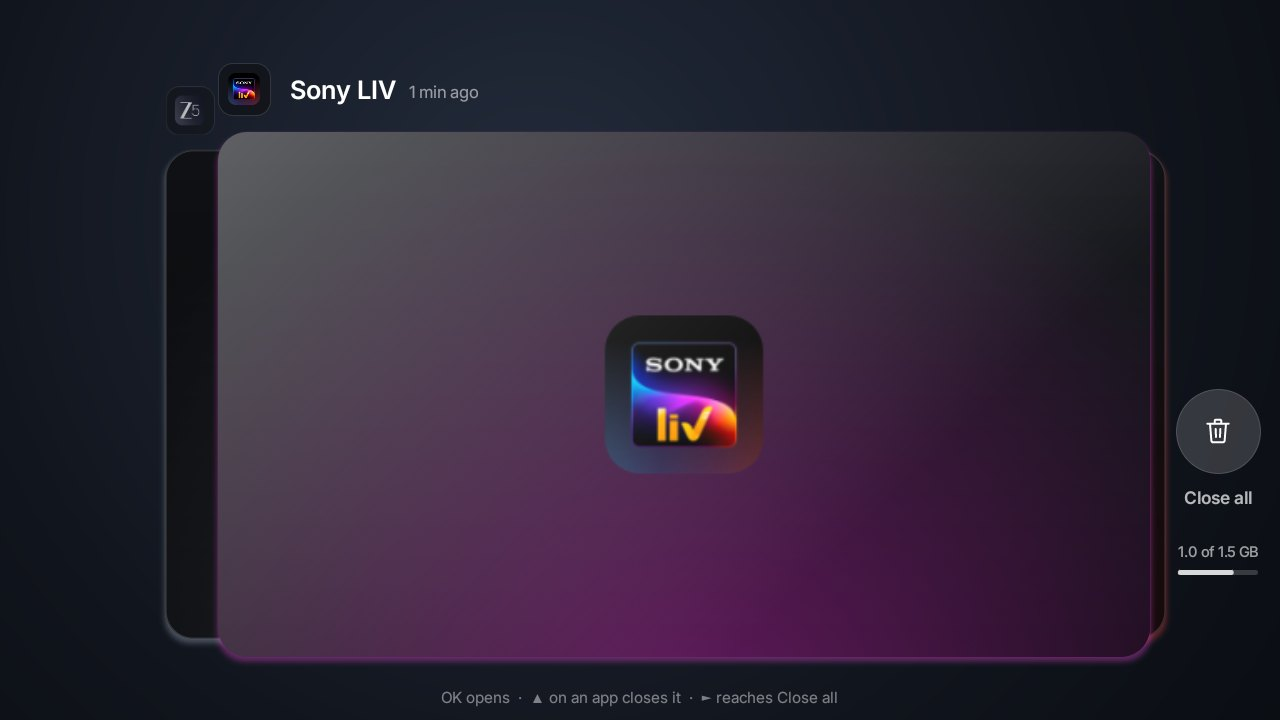
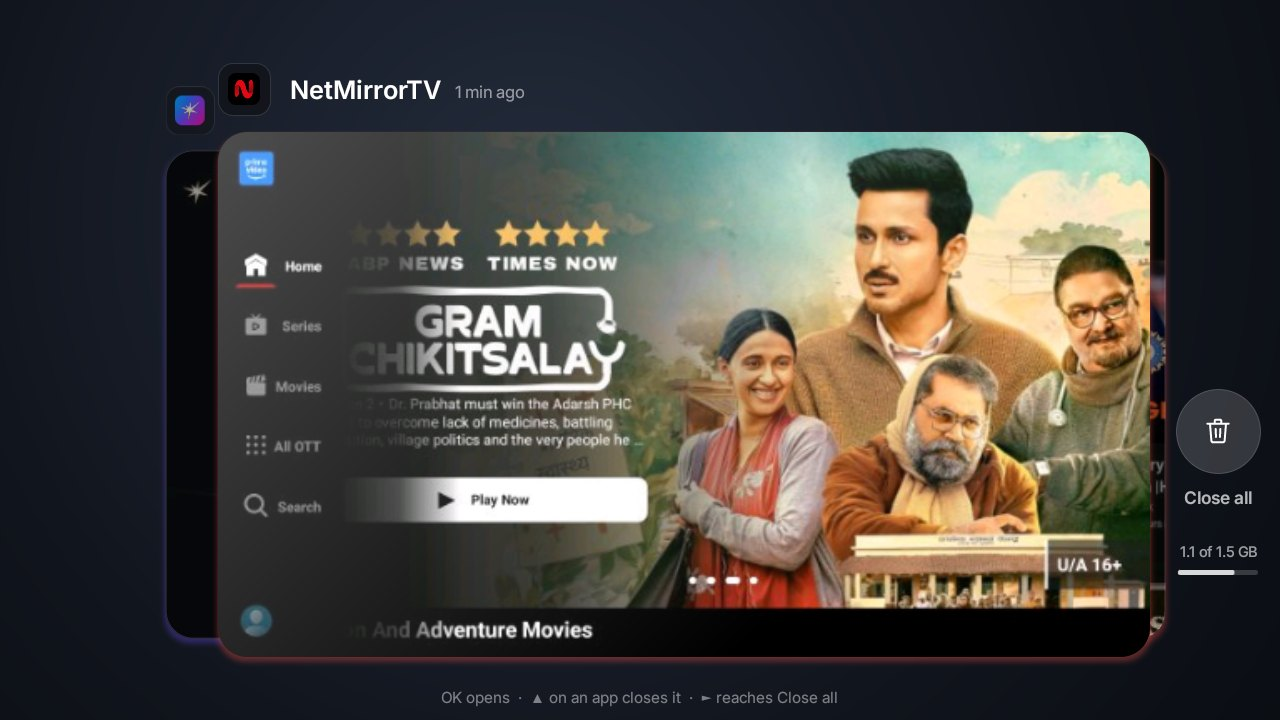
7.4: real app screens in recent apps, a loading screen that can't hold the remote
Every app gets a picture shortly after it opens, a dark page is no longer
mistaken for protected video, and a capture that still shows the last
app is dropped. If Aura's loading screen can't finish, it goes after a
few seconds rather than swallowing every key. README: new screenshots.

diff --git a/launcher/src/main/java/app/aura/home/HomeActivity.java b/launcher/src/main/java/app/aura/home/HomeActivity.java
@@ -1867,7 +1867,11 @@ public class HomeActivity extends Activity implements Backdrop.Listener, Control
     public boolean dispatchKeyEvent(KeyEvent e) {
         int code = e.getKeyCode();
         boolean down = e.getAction() == KeyEvent.ACTION_DOWN;
-        if (splash != null && !isVolumeKey(code)) return true;
+        if (splash != null && !isVolumeKey(code)) {
+            // never more than a moment: a press after 9 s takes it away
+            if (SystemClock.uptimeMillis() - splashAt > 9000) dropSplash.run();
+            return true;
+        }
         // teaching a remote button (Settings, Remote buttons): it may reach this window and not the service
         if (HomeKeys.teaching() && HomeKeys.teachable(code)) {
             if (down && e.getRepeatCount() == 0) HomeKeys.taught(code, e.getScanCode());
@@ -2978,16 +2982,32 @@ public class HomeActivity extends Activity implements Backdrop.Listener, Control
         if (splash == null || splashFinishing) return;
         splashFinishing = true;
         final Splash s = splash;
-        s.finish("WELCOME HOME", this::startIntro, () -> {
-            root.removeView(s);
-            splash = null;
-            if (Welcome.due(this)) openWelcome();
-            else {
-                wake();
-                // started from Android's screensaver settings while Aura wasn't running
-                if (fromSaverSettings(getIntent())) openSaverSettings();
-            }
-        });
+        s.finish("WELCOME HOME", this::startIntro, () -> splashGone(s));
+        // its landing animation needs frames; should none come (Aura started under an app, a busy
+        // TV), the loading screen still goes, so it can never hold the remote
+        handler.postDelayed(dropSplash, 4000);
+    }
+
+    private final Runnable dropSplash = () -> {
+        if (splash != null) splashGone(splash);
+    };
+
+    private void splashGone(Splash s) {
+        handler.removeCallbacks(dropSplash);
+        if (splash != s) return;
+        root.removeView(s);
+        splash = null;
+        // the landing never played (no frames came): the home screen its intro would fade in, shown now
+        if (sidebar.getAlpha() == 0f) {
+            for (View v : new View[]{sidebar, status, greeting, skyW, fyW, tdW, gridLabel}) v.setAlpha(1f);
+            bloom.setStrength(glow(), 0);
+        }
+        if (Welcome.due(this)) openWelcome();
+        else {
+            wake();
+            // started from Android's screensaver settings while Aura wasn't running
+            if (fromSaverSettings(getIntent())) openSaverSettings();
+        }
     }
 
     // ---- first run ---------------------------------------------------------------------------

diff --git a/launcher/src/main/java/app/aura/home/Previews.java b/launcher/src/main/java/app/aura/home/Previews.java
@@ -85,10 +85,24 @@ final class Previews {
                 small = Bitmap.createBitmap(p, W, H, Bitmap.Config.ARGB_8888);
                 full.recycle();
             } catch (RuntimeException | OutOfMemoryError e) {
+                android.util.Log.w("AuraKeys", "picture of " + pkg + " unreadable: " + e);
                 return;
             }
             // protected: whatever was kept before (or the fallback) stays
-            if (small == null || blank(small)) return;
+            if (small == null || blank(small)) {
+                android.util.Log.i("AuraKeys", "picture of " + pkg + " was black (protected): not kept");
+                return;
+            }
+            // the app hadn't drawn yet (some, like YouTube, leave the last app on screen while they
+            // start): a picture that's the previous app's screen again isn't this app's
+            Bitmap prev = last;
+            if (prev != null && !pkg.equals(lastPkg) && same(small, prev)) {
+                android.util.Log.i("AuraKeys", "picture of " + pkg + " still showed " + lastPkg + ": not kept");
+                return;
+            }
+            last = small;
+            lastPkg = pkg;
+            android.util.Log.i("AuraKeys", "picture of " + pkg + " kept");
             fresh = small;
             freshPkg = pkg;
             File f = file(c, pkg), part = new File(f.getPath() + ".part");
@@ -120,6 +134,26 @@ final class Previews {
             }
         }
         return dark >= n * 0.6f && lit < n * 0.12f;
+    }
+
+    /** The last picture kept, and whose: a new app's first capture is checked against it. */
+    private static volatile Bitmap last;
+    private static volatile String lastPkg;
+
+    /** Two captures of the same screen: on a 32x18 grid, colours differ by under 4% on average. */
+    static boolean same(Bitmap a, Bitmap b) {
+        long diff = 0;
+        int n = 0;
+        for (int y = 0; y < 18; y++) {
+            for (int x = 0; x < 32; x++) {
+                int pa = a.getPixel((int) ((x + 0.5f) * a.getWidth() / 32f), (int) ((y + 0.5f) * a.getHeight() / 18f));
+                int pb = b.getPixel((int) ((x + 0.5f) * b.getWidth() / 32f), (int) ((y + 0.5f) * b.getHeight() / 18f));
+                diff += Math.abs(((pa >> 16) & 0xFF) - ((pb >> 16) & 0xFF)) + Math.abs(((pa >> 8) & 0xFF) - ((pb >> 8) & 0xFF))
+                        + Math.abs((pa & 0xFF) - (pb & 0xFF));
+                n += 3;
+            }
+        }
+        return diff < n * 255L * 4 / 100;
     }
 
     /** The capture just taken over {@code pkg}, if it's still the newest; for the switcher's fold. */

diff --git a/launcher/src/main/java/app/aura/home/HomeKeys.java b/launcher/src/main/java/app/aura/home/HomeKeys.java
@@ -81,6 +81,12 @@ public class HomeKeys extends AccessibilityService {
         if (!open("aura_cc", front)) performGlobalAction(GLOBAL_ACTION_HOME);
     };
     private final Runnable refilter = this::refilter;
+    private final Runnable settleShot = () -> {
+        if (front != null && !front.equals(getPackageName())) shoot(front);
+    };
+    private final Runnable settleShotLate = () -> {
+        if (front != null && !front.equals(getPackageName())) shoot(front);
+    };
 
     /** Aura, with what to show; false when it couldn't be started. */
     private boolean open(String extra, String over) {
@@ -135,8 +141,17 @@ public class HomeKeys extends AccessibilityService {
             openable.put(pkg, ok);
         }
         if (ok) {
+            if (!pkg.equals(front)) Log.i(TAG, "in front: " + pkg);
             front = pkg;
             refilter();
+            // a picture once the app has drawn its first screen, and again once it has loaded (a
+            // splash screen is mostly black and isn't kept): every app has one, pressed or not
+            handler.removeCallbacks(settleShot);
+            handler.removeCallbacks(settleShotLate);
+            if (!pkg.equals(getPackageName()) && Previews.on(this)) {
+                handler.postDelayed(settleShot, 4000);
+                handler.postDelayed(settleShotLate, 12000);
+            }
         }
     }
 
@@ -309,6 +324,7 @@ public class HomeKeys extends AccessibilityService {
         if (now - shotAt < 1100) return;
         shotAt = now;
         shotOf.put(pkg, now);
+        Log.i(TAG, "picture of " + pkg);
         try {
             takeScreenshot(android.view.Display.DEFAULT_DISPLAY, getMainExecutor(), new TakeScreenshotCallback() {
                 @Override
@@ -319,10 +335,12 @@ public class HomeKeys extends AccessibilityService {
                 @Override
                 public void onFailure(int error) {
                     // no picture this time: the card keeps the last one, or what you were watching
+                    Log.w(TAG, "picture of " + pkg + " failed: " + error);
                 }
             });
         } catch (RuntimeException e) {
             // not allowed on this TV: cards stay as they are
+            Log.w(TAG, "picture of " + pkg + " not allowed: " + e);
         }
     }
 

diff --git a/README.md b/README.md
@@ -20,6 +20,10 @@
 </p>
 
 <p align="center">
+  <img src="docs/features.jpg" alt="Recent apps, Top Shelf, Block ads, the museum, tonight's sky and Earth from space" width="92%">
+</p>
+
+<p align="center">
   <a href="#-install-in-two-minutes"><b>Install</b></a> &nbsp;·&nbsp;
   <a href="#-whats-inside"><b>What's inside</b></a> &nbsp;·&nbsp;
   <a href="#-the-remote"><b>The remote</b></a> &nbsp;·&nbsp;
@@ -82,7 +86,13 @@ Your apps as frosted tiles in one of four looks (*Glass*, *Vivid*, *Midnight* or
 - **Smart Stack:** what you're partway through, new episodes and tonight's pick;
 - **Today:** time in apps, data used and free memory, turning into **Now Playing** while something plays.
 
-Hold <kbd>OK</kbd> on an app to move it, hide it, put it in a folder or uninstall it. Rest on an app and **Top Shelf** lines up its shows above the row.
+Hold <kbd>OK</kbd> on an app to move it, hide it, put it in a folder or uninstall it.
+
+### Top Shelf
+
+<p align="center"><img src="docs/top-shelf.jpg" alt="Top Shelf: JioHotstar's shows above the apps" width="92%"></p>
+
+Rest on an app in the top row and its shows line up above it, with how much is left: <kbd>↑</kbd> walks into them, <kbd>OK</kbd> plays.
 
 ### Recent apps, like tvOS
 
@@ -99,14 +109,30 @@ Press <kbd>Home</kbd> twice. The app you're in stands large in the middle showin
 | **Museum** | Masterpieces from the Art Institute of Chicago's open collection, each hung in a room lit for it, with a wall label. |
 | **Live wind** | The real wind around you right now, as thousands of drifting trails of light. |
 | **Tonight's sky** | The real sky over your city: 4,000 stars, the constellations, the Moon's real phase and the planets where they are. |
-| **Earth from space** | Time-lapses filmed from the International Space Station, downloaded over Wi-Fi, on TVs that can play them smoothly. |
+| **Earth from space** | <img src="docs/saver-space.jpg" width="100%"><br>Time-lapses filmed from the International Space Station, downloaded over Wi-Fi, on TVs that can play them smoothly. |
 | **Photo mosaic** | Photographs three at a time, yours included, turning over gently. |
 
-**Auto** moves between them by the time of day and the weather. Choose one, preview it and set when it starts in *Settings → Wallpaper*.
+<table><tr>
+<td width="55%"><img src="docs/screensaver-settings.jpg" alt="Screensaver settings"></td>
+<td>
+
+**Auto** moves between them by the time of day and the weather, every quarter of an hour.
+
+In *Settings → Wallpaper*: pick one, preview it, make Aura the TV's screensaver, and choose when it starts and when the TV turns itself off. Choosing Aura in Android's own screensaver settings opens this page too.
+
+</td></tr></table>
 
 ### Control Center
 
 <p align="center"><img src="docs/control-center.jpg" alt="Control Center" width="92%"></p>
+
+<table><tr>
+<td width="50%"><img src="docs/speed-test.jpg" alt="Wi-Fi sheet with a speed test"></td>
+<td width="50%"><img src="docs/block-ads.jpg" alt="Block ads with each filter measured"></td>
+</tr><tr>
+<td align="center"><sub>Wi-Fi, with a speed test that stores nothing</sub></td>
+<td align="center"><sub>Block ads, every filter measured from your TV</sub></td>
+</tr></table>
 
 Press <kbd>Menu</kbd>: Wi-Fi (with a speed test), Bluetooth, a sleep timer that fades the volume out, your HDMI inputs by their real names, picture and sound settings, a memory boost and standby.
 
